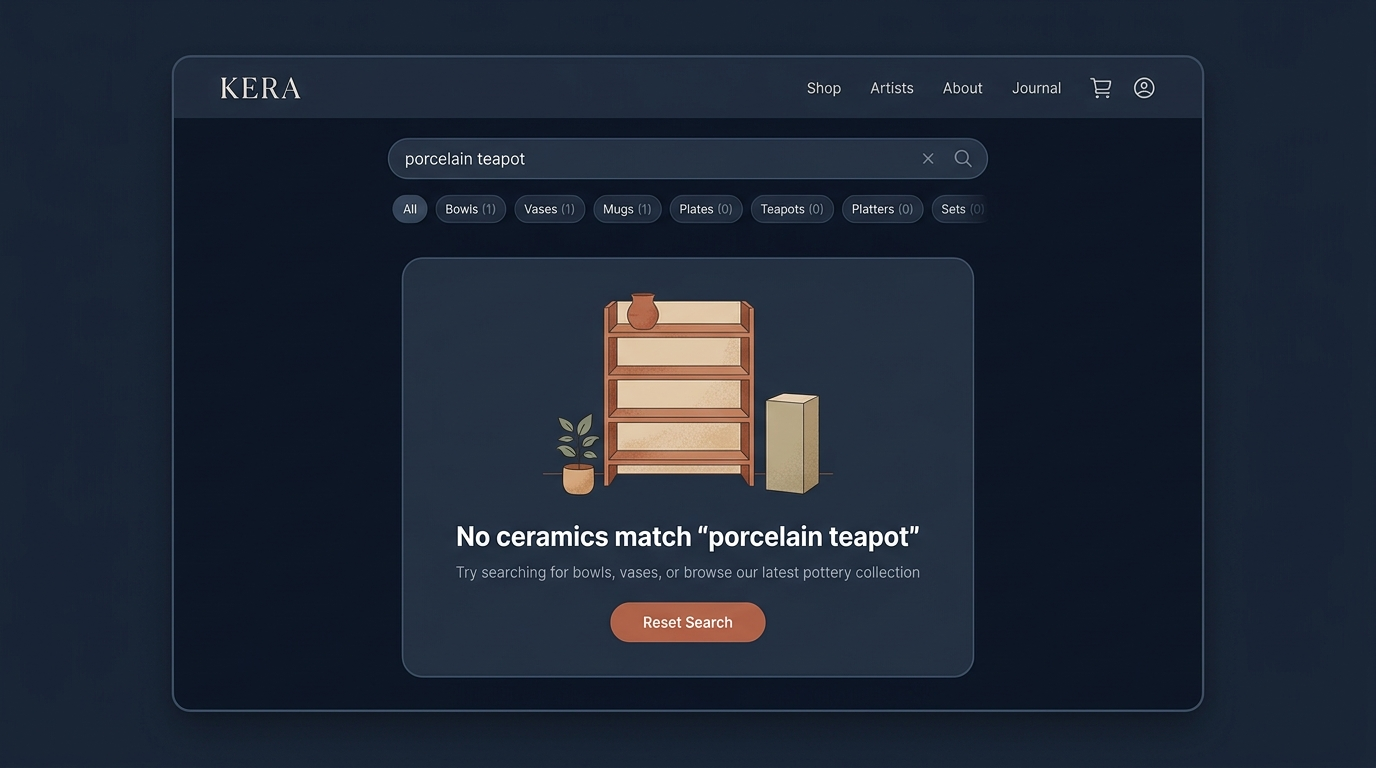
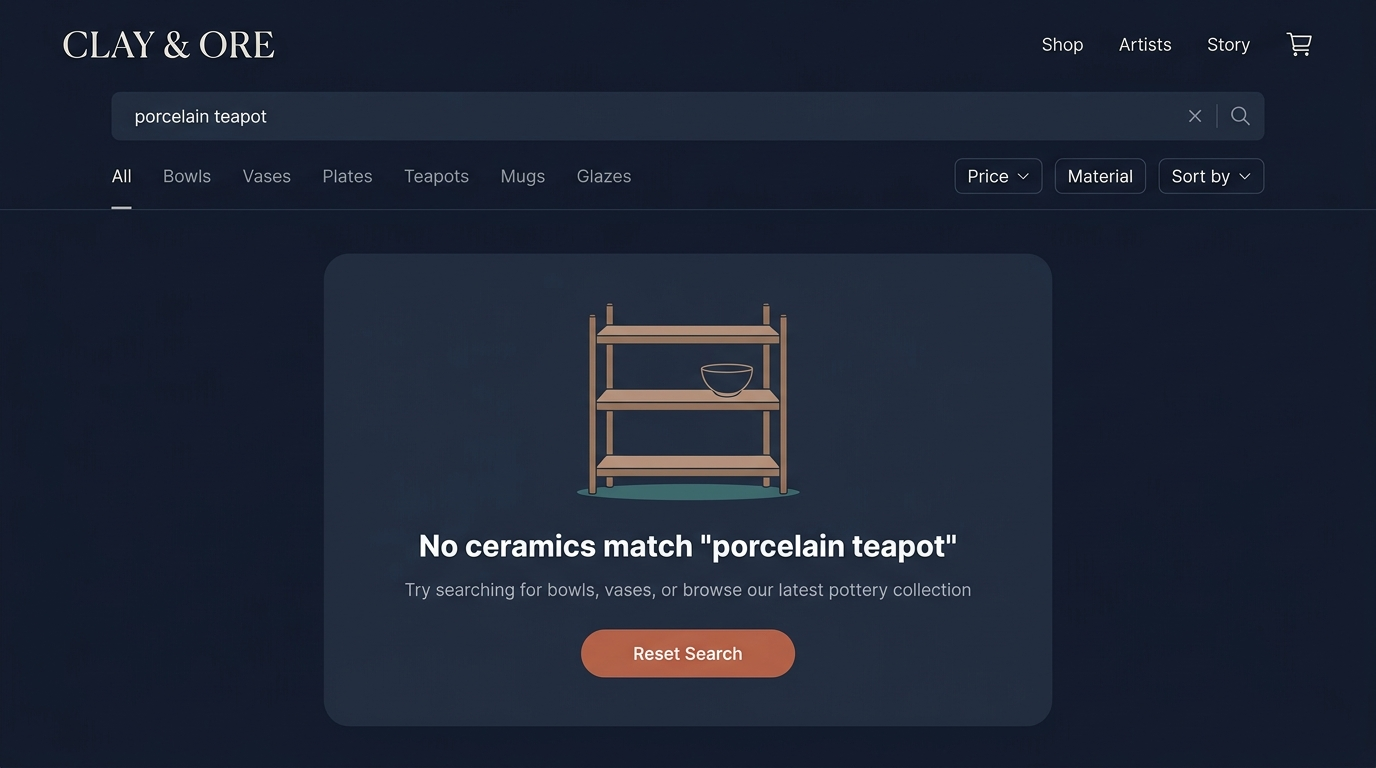
feat(catalogue): regenerate step3-empty.jpg as full-bleed raw UI (mwg-train-6n77)
step3-empty.jpg is the one framed board of the three: it rendered the page inside a rounded
panel floating on a grey ground, with margins on all four sides, while step1-grid.jpg and
step2-cart.jpg were already full-bleed. The frame gate cannot see it - it detects macOS-style
traffic lights only - although its own header states the intent as "clean content without
window frames".

The board is now regenerated from the amended prompt and is full-bleed: 1376x768, 394902
bytes, sha256 c564732d..., gateway-attested gemini-nano-banana-2.1, and inspected by eye -
the application's own background reaches all four edges, no panel, no chrome, and the
empty-state card sits inside the page. A copy is kept at /tmp/hud-6n77-attempt2.jpg as the
review evidence.

Its digest is re-synced in all five places that pin it: the archetype README, the Wave 2
register, compare.html's truncated caption, the extracted set.json and the asset register.
The old digest is gone in both full and truncated form, which is how this was checked after
a full-hash sweep missed compare.html.

Two passages in the landed plan.md/design.md described what this changes and are corrected
in the same commit: the boards' three brand names are now EARTH & OAK, ceramics and CLAY &
ORE (the regenerated board invents a new name, as the prompt names none), and the paragraph
claiming the empty board presents the page inside a rounded panel now says all three are
full-bleed.
[…]

diff --git a/docs/design/archetypes/catalogue/demo/compare.html b/docs/design/archetypes/catalogue/demo/compare.html
@@ -198,7 +198,7 @@
           <div class="comparison-head">
             <h2>3. Empty search state</h2>
             <p class="comparison-source">
-              Board <code>../step3-empty.jpg</code> (1376 × 768, SHA-256 <code>22444d6ba7…</code>)
+              Board <code>../step3-empty.jpg</code> (1376 × 768, SHA-256 <code>c564732d82…</code>)
               &middot; live page <code>empty.html</code> and the empty state in <code>index.html</code>
             </p>
           </div>

diff --git a/docs/provenance/assets/design-reference-wave2.md b/docs/provenance/assets/design-reference-wave2.md
@@ -13,7 +13,7 @@
 | --- | --- | --- | ---: | --- |
[7 lines of base64/hex data omitted]

diff --git a/docs/design/archetypes/catalogue/plan.md b/docs/design/archetypes/catalogue/plan.md
@@ -157,11 +157,13 @@ on the cart board, and the contract stops at the cart.
   session, and the drawer says as much itself - "Cart kept in this browser only (localStorage). This design
   target has no server session and no order route."
 - **The boards disagree with each other, and with the target, about who the shop is.** The three boards
-  carry **three different brand names** - `EARTH & OAK`, `ceramics` and `KERA` - where the demo has a fourth,
-  `Kiln & Copper`, with a shopping-bag mark. They also disagree about money: the grid board prices in **dollars**
-  (`$78.00`, `$64.00`, `$52.00`) and the cart board in **pounds** (`£19.99`, `£23.90`, `Subtotal: £43.89`).
-  The grid board is full-bleed, the empty board presents the page inside a rounded panel on a contrasting
-  ground, and the empty board's only action - `Reset Search` - is **orange** where every other action in the
+  carry **three different brand names** - `EARTH & OAK`, `ceramics` and `CLAY & ORE` - where the demo has a
+  fourth, `Kiln & Copper`, with a shopping-bag mark. They also disagree about money: the grid board prices in
+  **dollars** (`$78.00`, `$64.00`, `$52.00`) and the cart board in **pounds** (`£19.99`, `£23.90`,
+  `Subtotal: £43.89`). All three are full-bleed raw UI views with no window chrome and no presentation panel:
+  the empty board's rounded panel was removed on 2026-10-11 by regenerating it from an amended prompt, which
+  this directory's `README.md` and the Wave 2 register record. The empty board's only action - `Reset Search` -
+  is **orange** where every other action in the
   set and in the target is emerald. This directory's `README.md` records what the rasters depict, and it
   lists prices, category counts, inventory, totals, a shipping promise and checkout buttons among them, so
   the invented commercial detail is known and accepted rather than accidental; what the README does not

diff --git a/docs/provenance/assets/archetype-asset-sets.md b/docs/provenance/assets/archetype-asset-sets.md
@@ -45,12 +45,12 @@ store, the register or the target have moved apart.
 ### catalogue
 
 - Target: `docs/design/archetypes/catalogue`
[3 lines of base64/hex data omitted]
 - Documents: `docs/design/archetypes/catalogue/demo/cart.html`, `docs/design/archetypes/catalogue/demo/compare.html`, `docs/design/archetypes/catalogue/demo/empty.html`, `docs/design/archetypes/catalogue/demo/index.html`
 - Rights: `excluded_from_training: true`, `approved_for_training: false` from `docs/design/archetypes/catalogue/README.md:5`
 - Brand: `Kiln & Copper`
[2 lines of base64/hex data omitted]
 
 ### contact-lead
 

diff --git a/docs/design/archetypes/catalogue/README.md b/docs/design/archetypes/catalogue/README.md
@@ -11,7 +11,7 @@
 | --- | --- | --- | ---: |
[4 lines of base64/hex data omitted]
 
 Hashes pin the handed-off JPEG bytes, not their generating model, prompt-to-pixel reproducibility or legal status. The corpus must derive from its own approved source and measured records, not these images.
 

diff --git a/docs/design/archetypes/catalogue/design.md b/docs/design/archetypes/catalogue/design.md
@@ -173,7 +173,7 @@ Read from `demo/index.html`, `demo/cart.html` and `demo/empty.html`:
 ## Anti-patterns
 
 - **Three shops in three pictures.** The boards carry three different brand names - `EARTH & OAK`,
-  `ceramics` and `KERA` - while the demo has a fourth, `Kiln & Copper`. A reference set that cannot agree
+  `ceramics` and `CLAY & ORE` - while the demo has a fourth, `Kiln & Copper`. A reference set that cannot agree
   on the shop's name cannot be used to check branding.
 - **Two currencies, one catalogue.** The grid board prices in dollars and the cart board in pounds, in the
   same set, with no explanation.
